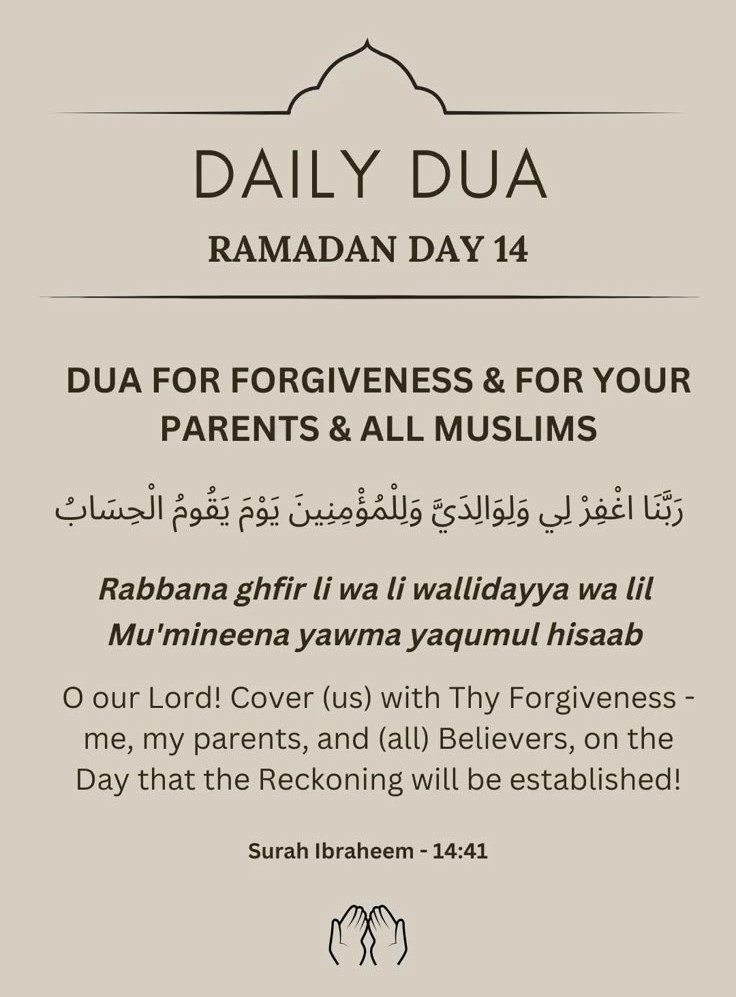
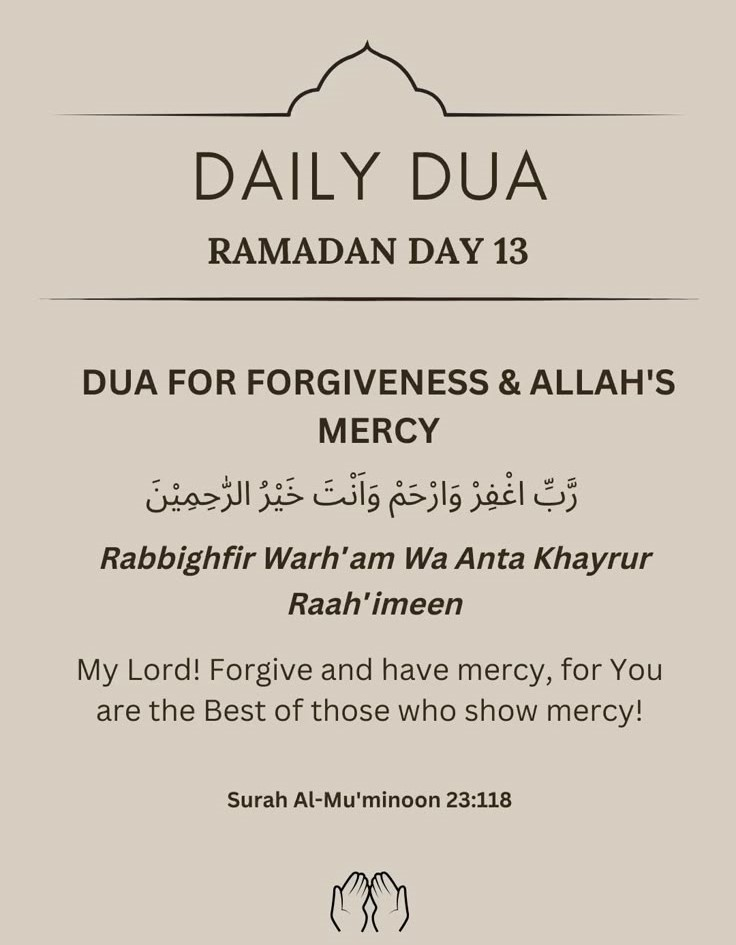
feat: update image assets and fix text translations in checklist and dua components

diff --git a/src/components/CheckList.jsx b/src/components/CheckList.jsx
@@ -141,7 +141,7 @@ const Checklist = () => {
       <div className="flex justify-between py-4">
         <h5 className="text-slate-700 font-bold">
           {" "}
-          {isEnglish ? "The Right Path" : "دی رائٹ پاتھ"}
+          {isEnglish ? "The Right Path" : "دی رائیٹ پاتھ"}
         </h5>
         <h1 className="text:lg sm:text-2xl text-slate-800">
           {isEnglish ? "Daily Tasks in Ramadan" : "رمضان چیک لسٹ"}
@@ -234,7 +234,7 @@ const Checklist = () => {
                           }
                           className="block px-4 py-2 text-gray-600 hover:bg-gray-50 w-full text-center"
                         >
-                          {isEnglish ? "Remove" : "ہٹائں"}
+                          {isEnglish ? "Remove" : "ہٹائیں"}
                         </button>
                       </div>
                     )}

diff --git a/src/components/Dua.jsx b/src/components/Dua.jsx
@@ -1,5 +1,5 @@
 import React from "react";
-import img from "../assets/dua/1.jpeg";
+import img from "../assets/dua/2.jpeg";
 import { useNavigate } from "react-router-dom";
 
 const Dua = () => {
